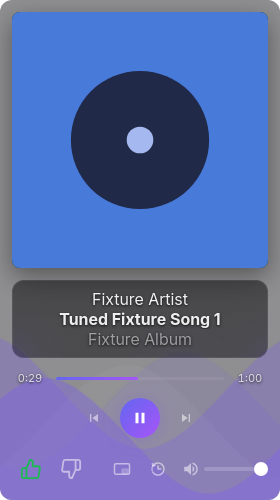
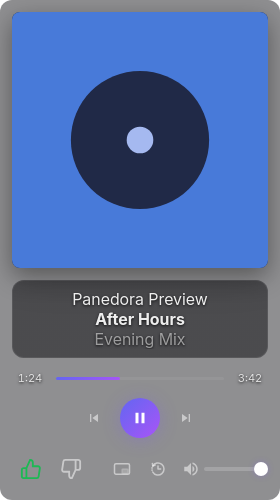
Use the fresh player previews and finish website checks

Changed region(s): [[0.0, 0.66, 1.0, 1.0], [0.2, 0.57, 0.8, 0.72], [0.4286, 0.75, 0.4857, 0.78]]

diff --git a/docs/index.html b/docs/index.html
@@ -38,7 +38,7 @@
             <div class="hero-intro">
                 <h1 id="hero-title">Pandora, on<br>your desktop.</h1>
                 <div class="hero-copy">
-                    <p>Your stations, a mini-player that stays close, and a few more ways to make the music yours.</p>
+                    <p>Listen to your stations, keep a mini-player above your other windows, and follow along with lyrics.</p>
                     <div class="hero-cta">
                         <a href="#download" class="btn"><i class="bx bx-download" aria-hidden="true"></i> Download Panedora</a>
                         <a href="https://github.com/MitchellBrovarnik/Panedora" target="_blank" rel="noreferrer" class="text-link">View on GitHub <span aria-hidden="true">↗</span></a>
@@ -55,7 +55,7 @@
         <section id="features" class="section container" aria-labelledby="players-title">
             <div class="section-heading">
                 <p class="eyebrow">Mini-players</p><h2 id="players-title">Keep your music close.</h2>
-                <p>Keep the music above your other windows. Use the compact bar, or switch to the classic layout for a bigger cover and your recently played songs.</p>
+                <p>Keep the music above your other windows with the compact bar. The classic layout preview adds a bigger cover and your recently played songs.</p>
             </div>
             <div class="player-previews">
                 <figure class="wide-player-preview">
@@ -65,7 +65,7 @@
                 </figure>
                 <figure class="classic-player-preview">
                     <div class="classic-player-stage"><img src="assets/mini-classic.png" alt="The classic Panedora mini-player, with a large cover, song details, seek bar, playback controls, and history button" width="280" height="500" loading="lazy"></div>
-                    <figcaption><h3>The classic layout</h3><p>More room for the artwork, plus a recently played view.</p></figcaption>
+                    <figcaption><h3>The classic layout <span class="preview-label">Preview</span></h3><p>More room for the artwork, plus a recently played view. Shown from the current development build.</p></figcaption>
                 </figure>
             </div>
             <p class="preview-note">Mini-player previews use sample song details.</p>
@@ -99,7 +99,7 @@
         </section>
         <section id="about" class="section section-tint" aria-labelledby="about-title">
             <div class="container about-layout">
-                <div class="section-heading"><p class="eyebrow">About Panedora</p><h2 id="about-title">A desktop home<br>for your stations.</h2></div>
+                <div class="section-heading"><p class="eyebrow">About Panedora</p><h2 id="about-title">About the project.</h2></div>
                 <div class="about-copy"><p>Panedora is an independent project by Mitchell Brovarnik. It brings Pandora station listening into a desktop app, with themes, lyrics, mini-players, and optional Discord sharing.</p><p>The source is available on GitHub, along with release notes, discussions, and a place to report issues or suggest improvements.</p><a href="https://github.com/MitchellBrovarnik/Panedora" target="_blank" rel="noreferrer" class="text-link">Visit the project <span aria-hidden="true">↗</span></a></div>
             </div>
         </section>

diff --git a/docs/styles.css b/docs/styles.css
@@ -65,8 +65,8 @@ a, summary { -webkit-tap-highlight-color: transparent; }
 .eyebrow { color: var(--accent); font-size: .78rem; font-weight: 550; letter-spacing: .025em; margin-bottom: 14px; }
 .section-heading > p:not(.eyebrow) { max-width: 530px; margin-top: 22px; font-size: .98rem; }
 .player-previews { display: grid; grid-template-columns: minmax(0, 1fr) 310px; gap: 65px; margin-top: 46px; align-items: center; }
-.wide-player-stage { min-height: 210px; display: flex; align-items: center; padding: 24px; background: #1a1b22; border: 1px solid var(--border); border-radius: 10px; }
-.wide-player-stage img { width: 540px; border-radius: 10px; box-shadow: 0 8px 25px #0005; }
+.wide-player-stage { min-height: 210px; display: flex; align-items: center; justify-content: center; padding: 24px; background: #1a1b22; border: 1px solid var(--border); border-radius: 10px; }
+.wide-player-stage img { width: 100%; max-width: 680px; border-radius: 10px; box-shadow: 0 8px 25px #0005; }
 .classic-player-stage { display: flex; justify-content: center; }
 .classic-player-stage img { width: 224px; border-radius: 10px; box-shadow: 0 10px 30px #0005; }
 .player-previews figcaption { margin-top: 24px; }
@@ -74,6 +74,7 @@ a, summary { -webkit-tap-highlight-color: transparent; }
 .player-details { display: flex; flex-wrap: wrap; gap: 8px 20px; list-style: none; margin: 28px 0 0; padding: 18px 0 0; border-top: 1px solid var(--border); color: var(--muted); font-size: .78rem; }
 .player-details li::before { content: '↗'; color: var(--accent); margin-right: 7px; }
 .preview-note { font-size: .73rem; margin-top: 27px; color: #9694a3; }
+.preview-label { display: inline-block; margin-left: 7px; color: var(--accent); font-size: .65rem; font-weight: 500; letter-spacing: 0; vertical-align: middle; }
 .discord-layout { display: grid; grid-template-columns: 1fr 1fr; gap: 100px; align-items: center; }
 .discord-preview { min-width: 0; }
 .activity-card { max-width: 370px; margin-inline: auto; padding: 22px; background: #25262b; border: 1px solid #3c3d45; border-radius: 9px; box-shadow: 0 8px 28px #0003; }

diff --git a/tests/electron-player-smoke.js b/tests/electron-player-smoke.js
@@ -1361,7 +1361,8 @@ app.whenReady().then(async () => {
     assert.equal(await siteRun("document.fonts.check('16px Inter') && document.fonts.check('16px boxicons')"), true, 'Website fonts and icons load locally');
     assert.match(await siteRun("document.getElementById('download-mac').textContent"), /Apple Silicon/);
     const captureSite = async name => {
-        await siteRun("new Promise(resolve => requestAnimationFrame(() => requestAnimationFrame(resolve)))");
+        // Let the compositor paint the new scroll position before saving it.
+        await siteRun("new Promise(resolve => setTimeout(() => requestAnimationFrame(() => requestAnimationFrame(resolve)), 500))");
         assert.equal(await siteRun('document.documentElement.scrollWidth <= innerWidth'), true, 'Website fits the viewport');
         await waitFor(() => siteRun('Array.from(document.images).filter(image => image.getBoundingClientRect().top < innerHeight && image.getBoundingClientRect().bottom > 0).every(image => image.complete && image.naturalWidth > 0)'),
             'visible website previews loaded');
@@ -1384,6 +1385,8 @@ app.whenReady().then(async () => {
     await captureSite('website-mobile');
     await siteRun("document.getElementById('download').scrollIntoView({behavior:'instant'})");
     await captureSite('website-downloads-mobile');
+    await siteRun("document.querySelectorAll('.install-help details').forEach(details => { details.open = true; })");
+    await captureSite('website-installation-mobile');
     assert.equal(calls.some(c => ['fonts.googleapis.com', 'fonts.gstatic.com', 'unpkg.com'].includes(c.host)), false, 'App and website make no external font or icon requests');
     site.close();
     await exerciseMiniMarqueeClipping();
